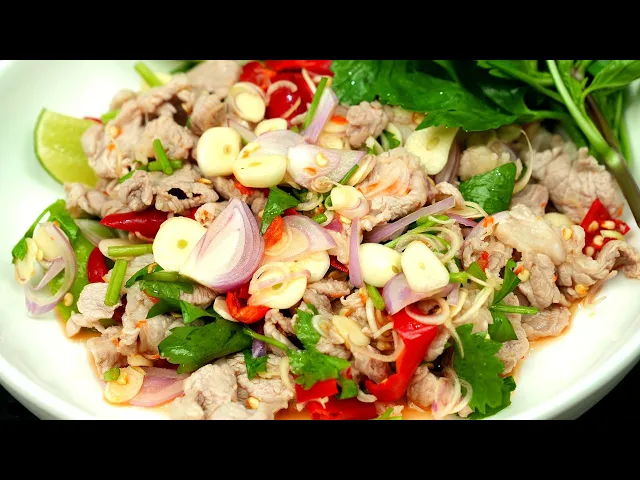
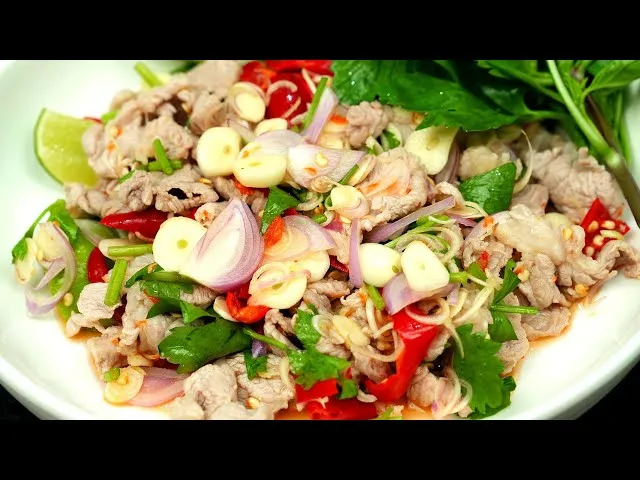
auto-deploy: added new media

diff --git a/.scripts/download-youtube-thumbnails.js b/.scripts/download-youtube-thumbnails.js
@@ -1,0 +1,95 @@
+#!/usr/bin/env node
+const fs = require("fs");
+const path = require("path");
+const https = require("https");
+const { execSync } = require("child_process");
+
+const CONTENT_DIR = path.resolve(__dirname, "../../ahaan-thai/content");
+const YOUTUBE_DIR = path.resolve(__dirname, "../youtube");
+
+function extractVideoIds(content) {
+  const ids = new Set();
+  for (const [, id] of content.matchAll(/\/youtube\/([a-zA-Z0-9_-]+)/g)) ids.add(id);
+  for (const [, id] of content.matchAll(/youtube\.com\/watch\?v=([a-zA-Z0-9_-]+)/g)) ids.add(id);
+  for (const [, id] of content.matchAll(/youtu\.be\/([a-zA-Z0-9_-]+)/g)) ids.add(id);
+  return ids;
+}
+
+function findMarkdownFiles(dir) {
+  const files = [];
+  for (const entry of fs.readdirSync(dir, { withFileTypes: true })) {
+    const full = path.join(dir, entry.name);
+    if (entry.isDirectory()) files.push(...findMarkdownFiles(full));
+    else if (entry.name.endsWith(".md")) files.push(full);
+  }
+  return files;
+}
+
+function download(url, dest) {
+  return new Promise((resolve, reject) => {
+    const file = fs.createWriteStream(dest);
+    const req = https.get(url, { headers: { "User-Agent": "Mozilla/5.0" } }, (res) => {
+      if (res.statusCode === 301 || res.statusCode === 302) {
+        file.close();
+        try { fs.unlinkSync(dest); } catch {}
+        download(res.headers.location, dest).then(resolve).catch(reject);
+        return;
+      }
+      if (res.statusCode !== 200) {
+        file.close();
+        try { fs.unlinkSync(dest); } catch {}
+        reject(new Error(`HTTP ${res.statusCode}`));
+        return;
+      }
+      res.pipe(file);
+      file.on("finish", () => { file.close(); resolve(); });
+    });
+    req.on("error", (err) => {
+      try { fs.unlinkSync(dest); } catch {}
+      reject(err);
+    });
+  });
+}
+
+async function main() {
+  const allIds = new Set();
+  for (const file of findMarkdownFiles(CONTENT_DIR)) {
+    for (const id of extractVideoIds(fs.readFileSync(file, "utf8"))) {
+      allIds.add(id);
+    }
+  }
+
+  console.log(`Found ${allIds.size} unique YouTube IDs in content`);
+
+  const missing = [...allIds].filter(
+    (id) => !fs.existsSync(path.join(YOUTUBE_DIR, `${id}.jpg`)) || !fs.existsSync(path.join(YOUTUBE_DIR, `${id}.webp`))
+  );
+
+  if (missing.length === 0) {
+    console.log("All thumbnails already present.");
+    return;
+  }
+
+  console.log(`Downloading ${missing.length} missing thumbnail(s)...\n`);
+
+  let ok = 0;
+  let fail = 0;
+  for (const id of missing) {
+    const jpgPath = path.join(YOUTUBE_DIR, `${id}.jpg`);
+    const webpPath = path.join(YOUTUBE_DIR, `${id}.webp`);
+    process.stdout.write(`  ${id} ... `);
+    try {
+      await download(`https://img.youtube.com/vi/${id}/sddefault.jpg`, jpgPath);
+      execSync(`cwebp -q 80 "${jpgPath}" -o "${webpPath}"`, { stdio: "pipe" });
+      console.log("ok");
+      ok++;
+    } catch (err) {
+      console.log(`FAILED (${err.message})`);
+      fail++;
+    }
+  }
+
+  console.log(`\nDone: ${ok} downloaded, ${fail} failed.`);
+}
+
+main();